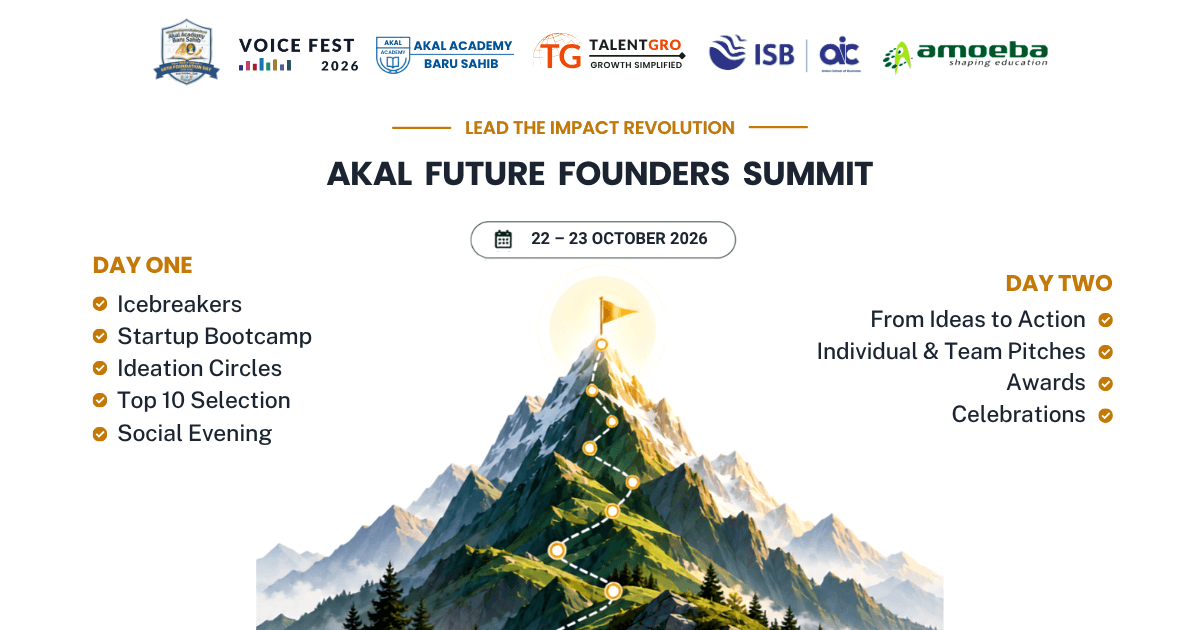
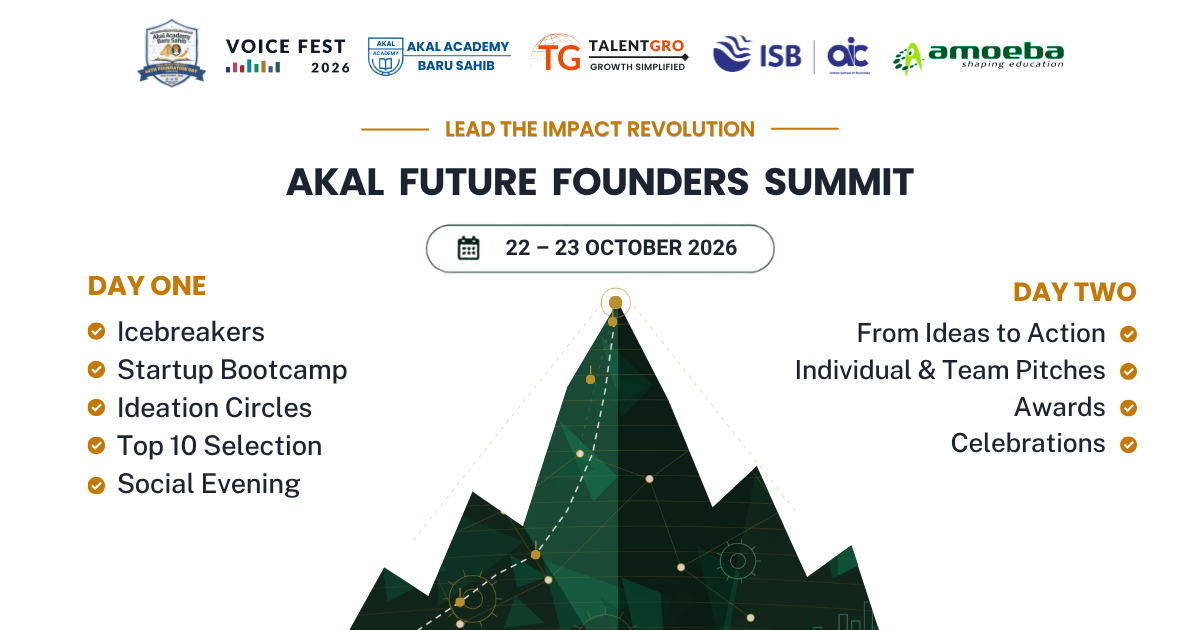
Replace heavy map iframe with instant-load facade; load Google Maps on tap
Generated with [Devin](https://devin.ai)

diff --git a/src/components/ReachUs.tsx b/src/components/ReachUs.tsx
@@ -1,5 +1,6 @@
+import { useState } from 'react';
 import { useScrollReveal } from '@/hooks/useScrollReveal';
-import { MapPin, Plane, Train, Bus, ExternalLink } from 'lucide-react';
+import { MapPin, Plane, Train, Bus, ExternalLink, Navigation } from 'lucide-react';
 
 const TRAVEL_OPTIONS = [
   {
@@ -23,6 +24,7 @@ const MAPS_URL = 'https://www.google.com/maps/search/?api=1&query=Akal+Academy+B
 
 export default function ReachUs() {
   const { ref, visible } = useScrollReveal<HTMLDivElement>();
+  const [mapLoaded, setMapLoaded] = useState(false);
 
   return (
     <section id="reach" className="py-20 lg:py-28 bg-white relative overflow-hidden">
@@ -66,16 +68,33 @@ export default function ReachUs() {
             </div>
 
             <div className="lg:col-span-7">
-              <div className="rounded-2xl overflow-hidden border border-summit-orange-100 shadow-lg shadow-summit-orange-900/5 bg-summit-cream">
-                <iframe
-                  title="Map showing the location of Akal Academy Baru Sahib, Himachal Pradesh"
-                  src="https://www.google.com/maps?q=Akal+Academy+Baru+Sahib,+Himachal+Pradesh&output=embed"
-                  className="w-full h-72 sm:h-80 lg:h-[26rem]"
-                  loading="lazy"
-                  referrerPolicy="no-referrer-when-downgrade"
-                  allowFullScreen
-                />
-              </div>
+              {mapLoaded ? (
+                <div className="rounded-2xl overflow-hidden border border-summit-orange-100 shadow-lg shadow-summit-orange-900/5 bg-summit-cream animate-fade-in">
+                  <iframe
+                    title="Map showing the location of Akal Academy Baru Sahib, Himachal Pradesh"
+                    src="https://www.google.com/maps?q=Akal+Academy+Baru+Sahib,+Himachal+Pradesh&output=embed"
+                    className="w-full h-72 sm:h-80 lg:h-[26rem]"
+                    loading="lazy"
+                    referrerPolicy="no-referrer-when-downgrade"
+                    allowFullScreen
+                  />
+                </div>
+              ) : (
+                <button
+                  type="button"
+                  onClick={() => setMapLoaded(true)}
+                  className="group w-full h-72 sm:h-80 lg:h-[26rem] rounded-2xl border border-summit-orange-100 shadow-lg shadow-summit-orange-900/5 bg-gradient-to-br from-summit-cream to-summit-orange-50 flex flex-col items-center justify-center gap-4 transition-colors duration-150 hover:border-summit-orange-300 focus-visible:ring-2 focus-visible:ring-summit-orange-500 focus-visible:ring-offset-2"
+                  aria-label="Load interactive map of Akal Academy Baru Sahib"
+                >
+                  <div className="w-14 h-14 rounded-2xl bg-white border border-summit-orange-100 shadow-sm flex items-center justify-center group-hover:scale-105 transition-transform duration-150">
+                    <Navigation className="w-6 h-6 text-summit-orange-600" />
+                  </div>
+                  <div>
+                    <div className="text-sm font-semibold text-summit-charcoal">Akal Academy Baru Sahib, Himachal Pradesh</div>
+                    <div className="text-xs text-summit-charcoal/55 mt-1">Tap to load the interactive map</div>
+                  </div>
+                </button>
+              )}
             </div>
           </div>
         </div>

diff --git a/index.html b/index.html
@@ -24,7 +24,7 @@
     <meta property="og:url" content="https://akalfuturefounders.talentg.io/" />
     <meta property="og:title" content="Akal Future Founders Summit | 22–23 October 2026" />
     <meta property="og:description" content="Two Days. One Summit. Every Idea Climbing. A hands-on entrepreneurship and innovation experience for Grade 9–12 students at Akal Academy Baru Sahib, Himachal Pradesh — presented by TalentGro Global." />
-    <meta property="og:image" content="https://akalfuturefounders.talentg.io/og-image.png" />
+    <meta property="og:image" content="https://akalfuturefounders.talentg.io/og-image.png?v=2" />
     <meta property="og:image:type" content="image/png" />
     <meta property="og:image:width" content="1200" />
     <meta property="og:image:height" content="630" />
@@ -35,7 +35,7 @@
     <meta name="twitter:card" content="summary_large_image" />
     <meta name="twitter:title" content="Akal Future Founders Summit | 22–23 October 2026" />
     <meta name="twitter:description" content="Two Days. One Summit. Every Idea Climbing. A hands-on entrepreneurship and innovation experience for Grade 9–12 students at Akal Academy Baru Sahib, Himachal Pradesh." />
-    <meta name="twitter:image" content="https://akalfuturefounders.talentg.io/og-image.png" />
+    <meta name="twitter:image" content="https://akalfuturefounders.talentg.io/og-image.png?v=2" />
 
     <!-- Structured Data: Educational Event -->
     <script type="application/ld+json">
@@ -50,7 +50,7 @@
       "eventStatus": "https://schema.org/EventScheduled",
       "eventAttendanceMode": "https://schema.org/OfflineEventAttendanceMode",
       "url": "https://akalfuturefounders.talentg.io/",
-      "image": "https://akalfuturefounders.talentg.io/og-image.png",
+      "image": "https://akalfuturefounders.talentg.io/og-image.png?v=2",
       "location": {
         "@type": "Place",
         "name": "Akal Academy Baru Sahib",
